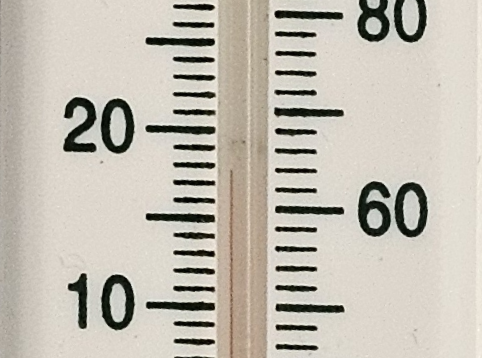
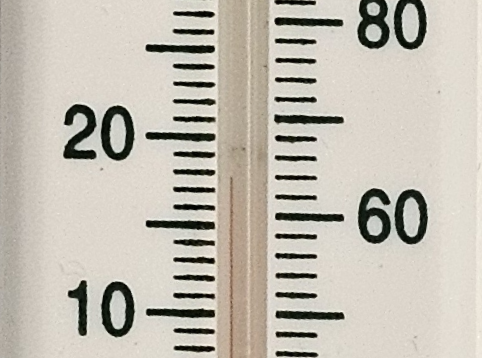
task2 changes for threshold to fit better the fluid validation

Changed region(s): [[0.1245, 0.0, 0.4979, 1.0], [0.5602, 0.0, 0.9025, 1.0]]

diff --git a/task2.py b/task2.py
@@ -342,17 +342,17 @@ def threshold_fluid(image):
         - image -- thermometer image
     """
     # red colour wraps around hue range so two masks are required
-    lower = np.array([0, 50, 40])
-    higher = np.array([15, 255, 255])
+    lower = np.array([10, 70, 55])
+    higher = np.array([160, 255, 255])
     res1 = hsv_threshold(image, lower, higher) 
 
-    lower = np.array([165, 50, 40])
-    higher = np.array([180, 255, 255])
-    res2 = hsv_threshold(image, lower, higher) 
+    #lower = np.array([165, 50, 40])
+    #higher = np.array([180, 255, 255])
+    #res2 = hsv_threshold(image, lower, higher) 
 
     # combine all hsv thresholded detections together
-    result = cv2.bitwise_or(res1, res2)
-    return result
+    #result = cv2.bitwise_or(res1, res2)
+    return res1
 def run_task2(image_path, config, output_path):
 
     os.makedirs(output_path, exist_ok=True)
